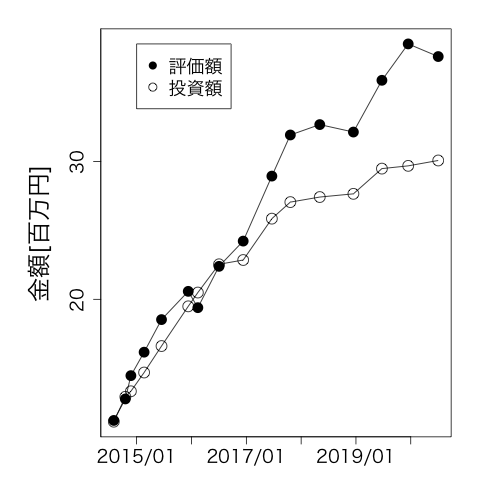
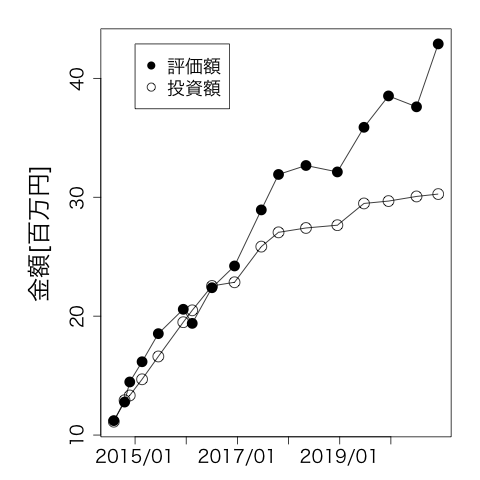
add

diff --git a/investment_return.md b/investment_return.md
@@ -28,4 +28,4 @@ permalink: /investment_return/
 6/23/2019|29,478,847|35,883,544|6,404,697|21.73%
 12/15/2019|29,678,652|38,522,275|8,843,622|29.80%
 7/2/2020|30,068,400|37,605,832|7,537,431|25.07%
-
+12/4/2020|30,268,216|42,896,613|12,628,398|41.72%
